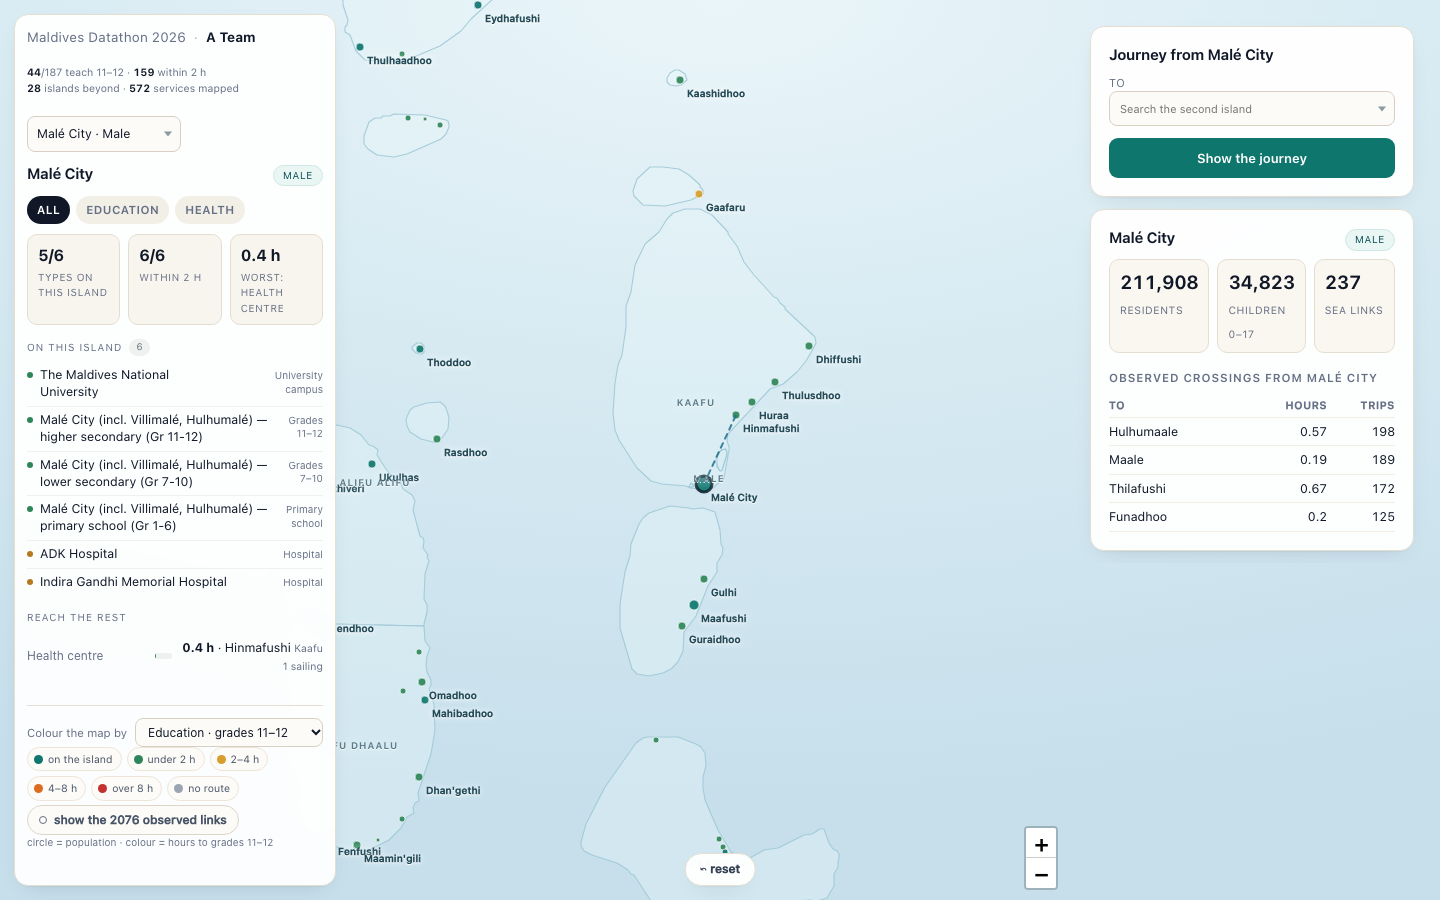
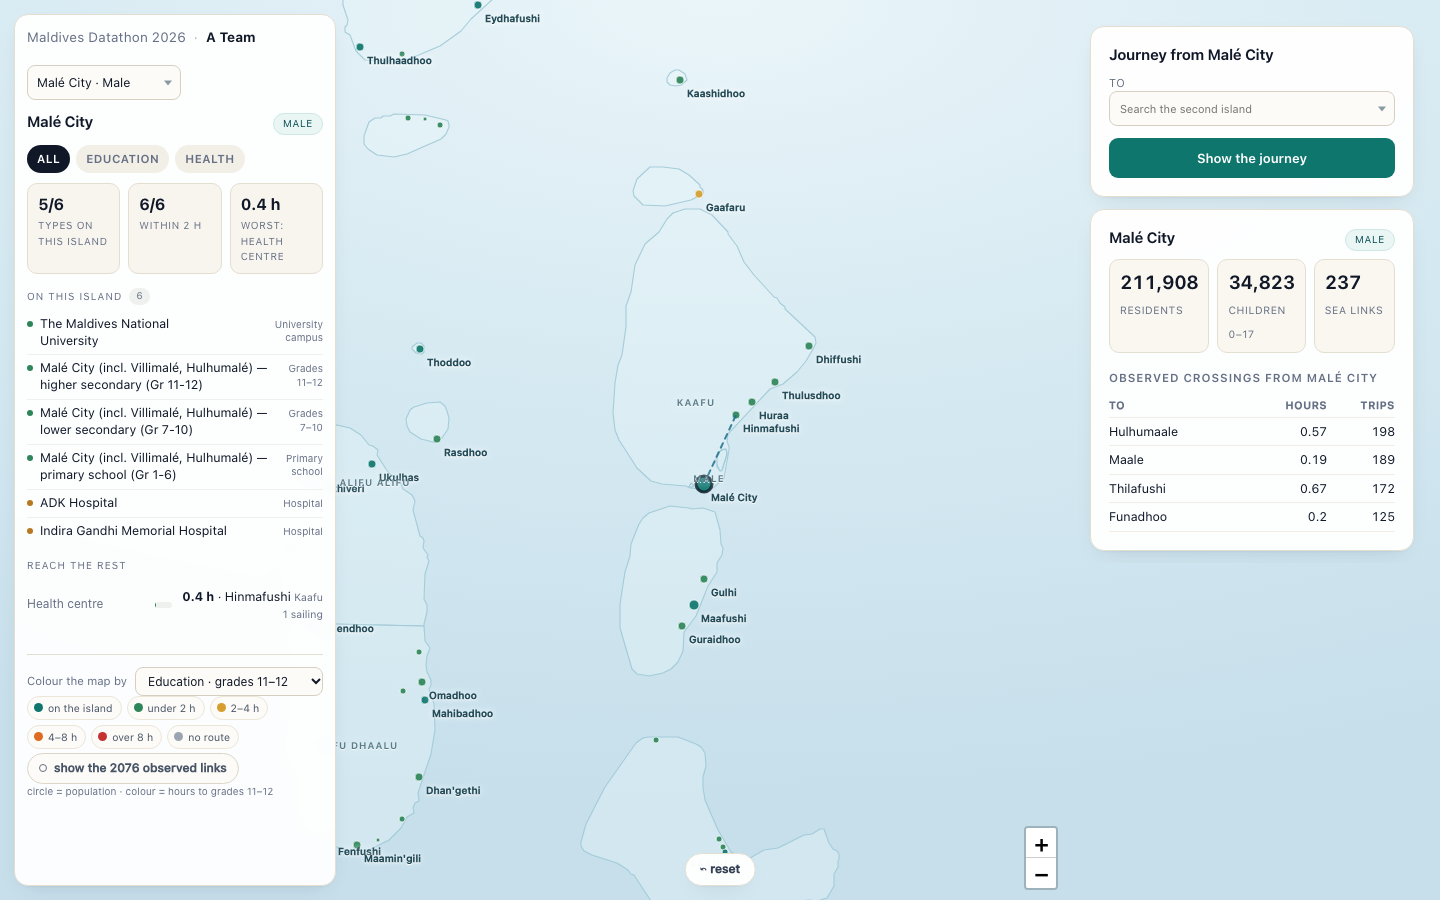
Remove the national summary lines from the panel

diff --git a/web/access/templates/access/index.html b/web/access/templates/access/index.html
@@ -10,8 +10,6 @@
 
   <aside class="ovl ovl-left">
     <p class="brandline">Maldives Datathon 2026 <i>·</i> <b>A Team</b></p>
-    <p class="natl"><b>{{ s.hs_islands }}</b>/{{ s.islands }} teach 11–12 · <b>{{ s.within2_islands }}</b> within 2 h<br>
-      <b>{{ n_beyond }}</b> islands beyond · <b>{{ n_services }}</b> services mapped</p>
     <div class="row2">
       <div class="combo wide" id="islandCombo">
         <input id="islandText" class="combotext" type="text" placeholder="Select an island…"
